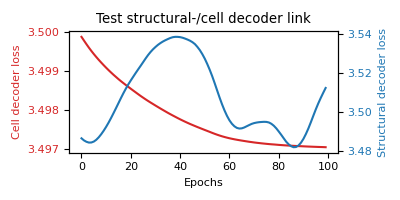
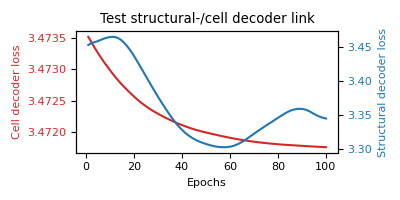
update validation loss calc

diff --git a/BaseModel_pytorch/DecoderCellContent.py b/BaseModel_pytorch/DecoderCellContent.py
@@ -194,29 +194,42 @@ class DecoderCellContent(torch.nn.Module):
             prediction_prob = torch.stack(prediction_probs[example_idx])
             num_predictions, num_probs = prediction_prob.size()
 
-            if unpadded_target_size < num_predictions:
 
-                # pad the target tokens to reach the the number of predictions
-                padded_target = torch.zeros(num_predictions, dtype=torch.int64)
-                padded_target[0:unpadded_target_size] = unpadded_target
+            # if unpadded_target_size < num_predictions:
 
-                # the tensors have compatible lengths
-                compatible_target = padded_target
-                compatible_prediction_prob = prediction_prob
+            # pad the target tokens to reach the the number of predictions
+            padded_target = torch.zeros(num_predictions, dtype=torch.int64)
+            padded_target[0:min(unpadded_target_size, num_predictions)] = unpadded_target[0:min(unpadded_target_size, num_predictions)]
 
-            else:
+            # the tensors have compatible lengths
+            compatible_target = padded_target
+            compatible_prediction_prob = prediction_prob
 
-                # pad the probability predictions to reach the number of target tokens
-                padded_prediction_prob = torch.zeros((unpadded_target_size, num_probs))
-                padded_prediction_prob[0:num_predictions, :] = prediction_prob
-
-                compatible_target = unpadded_target
-                compatible_prediction_prob = padded_prediction_prob
+            # if unpadded_target_size < num_predictions:
+            #
+            #     # pad the target tokens to reach the the number of predictions
+            #     padded_target = torch.zeros(num_predictions, dtype=torch.int64)
+            #     padded_target[0:unpadded_target_size] = unpadded_target
+            #
+            #     # the tensors have compatible lengths
+            #     compatible_target = padded_target
+            #     compatible_prediction_prob = prediction_prob
+            #
+            # else:
+            #
+            #     # pad the probability predictions to reach the number of target tokens
+            #     padded_prediction_prob = torch.zeros((unpadded_target_size, num_probs))
+            #     padded_prediction_prob[0:num_predictions, :] = prediction_prob
+            #
+            #     compatible_target = unpadded_target
+            #     compatible_prediction_prob = padded_prediction_prob
 
 #                print('pad prob', compatible_target.size(), compatible_prediction_prob.size())
 
-            time_steps = compatible_target.shape[0]
-            loss+= self.loss_criterion(compatible_prediction_prob, compatible_target)/time_steps
+
+            loss+= self.loss_criterion(compatible_prediction_prob, compatible_target)/unpadded_target_size
+        #     print(loss)
+        # quit()
         return loss/batch_size
 
     def predict(self, encoded_features_map, structural_hidden_state, cell_content_target=None, maxT = 150, store_attention=False):
@@ -329,8 +342,10 @@ class DecoderCellContent(torch.nn.Module):
                 # continue if no td is predicted for image
                 if len(structural_hidden_state[batch_index])==0:
                     continue
-#                print(cell_content_target[batch_index].shape)
-#                print(prediction_probs[batch_index])
+#                 print(cell_content_target[batch_index].shape)
+                # print(len(prediction_probs[batch_index]))
+                # print(prediction_probs[batch_index][0][0].shape)
+
                 loss_batch += self.calc_loss_cell(cell_content_target[batch_index, :, :], prediction_probs[batch_index] )
 
             return predictions, loss

diff --git a/BaseModel_pytorch/StructuralAttention.py b/BaseModel_pytorch/StructuralAttention.py
@@ -37,12 +37,50 @@ class StructuralAttention(torch.nn.Module):
         # print("attention_encoded_features_map[0]")
         # print(torch.min(attention_encoded_features_map[0]), torch.max(attention_encoded_features_map[0]))
 
-        # from matplotlib import pylab as plt
-        # plt.matshow(encoded_features_map[0,:,:].detach().numpy())
-        # plt.colorbar()
-        # plt.savefig('encoded_features_map.png')
-        # plt.close()
-        #
+#         from matplotlib import pylab as plt
+#         import numpy as np
+#         fig, axes = plt.subplots(nrows=2, ncols=1, figsize = (50, 10))
+#         ax0 = axes.flat[0]
+#         ax1 = axes.flat[1]
+#         print(encoded_features_map[0,:,:].detach().numpy().shape)
+#         print(structural_hidden_state.detach().numpy().shape)
+#         print(attention_encoded_features_map[0,:,:].detach().numpy().shape)
+#         print(np.repeat(attention_structural_hidden_state[0,:,:].detach().numpy(), 144, axis = 0).shape)
+#         print( (attention_encoded_features_map + attention_structural_hidden_state).shape)
+#
+#         ax0.matshow(encoded_features_map[0,:,:].detach().numpy())
+#         ax1.matshow(structural_hidden_state.detach().numpy())
+#         plt.savefig('Figures/attention_input.png')
+#
+#         fig, axes = plt.subplots(nrows=1, ncols=3, figsize = (6,1.7))
+#         ax0 = axes.flat[0]
+#         ax1 = axes.flat[1]
+#         ax2 = axes.flat[2]
+#         print("attention_encoded_features_map")
+#         print(attention_encoded_features_map[0,:,:].detach().numpy().min(), attention_encoded_features_map[0,:,:].detach().numpy().max())
+#         print("attention_structural_hidden_state")
+#         print(attention_structural_hidden_state[0,:,:].detach().numpy().min(), attention_structural_hidden_state[0,:,:].detach().numpy().max())
+#         min_ = min(attention_encoded_features_map[0,:,:].detach().numpy().min(),attention_structural_hidden_state[0,:,:].detach().numpy().min() )
+#         max_ = max(attention_encoded_features_map[0,:,:].detach().numpy().max(),attention_structural_hidden_state[0,:,:].detach().numpy().max() )
+#         im0 = ax0.matshow(attention_encoded_features_map[0,:,:].detach().numpy(),vmin = min_, vmax = max_)
+#         ax0.set_xticks([])
+#         ax0.set_yticks([])
+#         im1 = ax1.matshow(np.repeat(attention_structural_hidden_state[0,:,:].detach().numpy(), 144, axis = 0), vmin = min_, vmax = max_)
+#         ax1.set_xticks([])
+#         ax1.set_yticks([])
+#         im2 = ax2.matshow( (attention_encoded_features_map + attention_structural_hidden_state).detach().numpy()[0,:,:], vmin  = min_, vmax = max_)
+#         ax2.set_xticks([])
+#         ax2.set_yticks([])
+#         fig.subplots_adjust(bottom = 0.4)
+# #      cbar_ax = fig.add_axes([0.85, 0.15, 0.05, 0.7])
+#         cbar_ax = fig.add_axes([0.15, 0.25, 0.7, 0.07])
+#         fig.colorbar(im2, cax=cbar_ax, orientation = 'horizontal')
+# #        fig.tight_layout()
+#         plt.savefig('Figures/attention_intoReLu.png')
+# #        quit()
+
+        #plt.close()
+
         # print(structural_hidden_state.shape)
         # plt.matshow(structural_hidden_state.detach().numpy())
         # plt.colorbar()
@@ -71,6 +109,8 @@ class StructuralAttention(torch.nn.Module):
 
         # compute the attention weights
         attention_weights = self.softmax(attention_combined)
+#        print("attention_weigths")
+#        print(attention_weights.detach().numpy().min(), attention_weights.detach().numpy().max(), attention_weights.detach().numpy().mean())
         # we restore last dimension
         # attention_weights: (batch_size, n*n, 1)
         attention_weights = attention_weights.unsqueeze(2)

diff --git a/BaseModel_pytorch/DecoderStructural.py b/BaseModel_pytorch/DecoderStructural.py
@@ -160,6 +160,7 @@ class DecoderStructural(torch.nn.Module):
         """
 
         batch_size = targets.size()[0]
+
         loss =0
 
         for example_idx in range(batch_size):
@@ -174,27 +175,27 @@ class DecoderStructural(torch.nn.Module):
             prediction_prob = torch.stack(prediction_probs[example_idx])
             num_predictions, num_probs = prediction_prob.size()
 
-            if unpadded_target_size < num_predictions:
+            # if unpadded_target_size < num_predictions:
 
-                # pad the target tokens to reach the the number of predictions
-                padded_target = torch.zeros(num_predictions, dtype=torch.int64)
-                padded_target[0:unpadded_target_size] = unpadded_target
+            # pad the target tokens to reach the the number of predictions
+            padded_target = torch.zeros(num_predictions, dtype=torch.int64)
+            padded_target[0:min(unpadded_target_size, num_predictions)] = unpadded_target[0:min(unpadded_target_size, num_predictions)]
 
-                # the tensors have compatible lengths
-                compatible_target = padded_target
-                compatible_prediction_prob = prediction_prob
+            # the tensors have compatible lengths
+            compatible_target = padded_target
+            compatible_prediction_prob = prediction_prob
 
-            else:
-                # pad the probability predictions to reach the number of target tokens
-                padded_prediction_prob = torch.zeros((unpadded_target_size, num_probs))
-                padded_prediction_prob[0:num_predictions, :] = prediction_prob
-
-                compatible_target = unpadded_target
-                compatible_prediction_prob = padded_prediction_prob
-
+            # else:
+            #     # pad the probability predictions to reach the number of target tokens
+            #     padded_prediction_prob = torch.zeros((unpadded_target_size, num_probs))
+            #     padded_prediction_prob[0:num_predictions, :] = prediction_prob
+            #
+            #     compatible_target = unpadded_target
+            #     compatible_prediction_prob = padded_prediction_prob
+            #
 #                print('pad prob', compatible_target.size(), compatible_prediction_prob.size())
-            time_steps = compatible_target.shape[0]
-            loss+= self.loss_criterion(compatible_prediction_prob, compatible_target)/time_steps
+
+            loss+= self.loss_criterion(compatible_prediction_prob, compatible_target)/unpadded_target_size
 
         return loss/batch_size
 

diff --git a/BaseModel_pytorch/Test-Model.py b/BaseModel_pytorch/Test-Model.py
@@ -6,8 +6,8 @@ relative_path = "../../Dataset"
 model_tag = "baseline_cell"
 
 # tunable parameters
-out_channels_structural = 64 # number of channels
-out_channels_cell_content = 64 # number of channels
+out_channels_structural = 512 # number of channels
+out_channels_cell_content = 512 # number of channels
 structural_hidden_size = 128 # dimensions of hidden layer in structural decoder
 structural_attention_size = 128 # dimensions of context vector in structural decoder
 cell_content_hidden_size = 256 # dimensions of hidden layer in cell decoder
@@ -26,7 +26,7 @@ epochs = 10
 
 # make list of lambdas to use for each epoch in training
 lambda_ratio = 0.4
-lambdas = int(lambda_ratio * epochs) * [1.0] + int((1-lambda_ratio) * epochs) * [0.0001]
+lambdas = int(lambda_ratio * epochs) * [1.0] + int((1-lambda_ratio) * epochs) * [0.5]
 
 #lambdas = [1.0]*25 + 25*[1, 1, 0.5, 0.5]# for n in range(epochs)] # LAMBDA = 1 turns OFF cell decoder
 # if you want to run WITH cell decoder, you can uncomment the line below, remember to change epochs to 25
@@ -34,7 +34,7 @@ lambdas = int(lambda_ratio * epochs) * [1.0] + int((1-lambda_ratio) * epochs) * 
 
 
 # make list of learning rate to use for each epoch in training
-lrs = [0.01 for _ in range(epochs)] #+ [0.001]*25
+lrs = [0.001 for _ in range(epochs)] #+ [0.001]*25
 #lrs =[0.001 for n in range(20)]+ [0.0001 for _ in range(30)] + [0.00001 for _ in range(50)]# + [0.001 for _ in range(10)] + [0.0001 for _ in range(2)]
 #if you want to run WITH cell decoder, you can uncomment the line below, rembember to change epochs to 25
 #lrs = [0.001 for _ in range(10)] + [0.0001 for _ in range(3)] + [0.001 for _ in range(10)] + [0.0001 for _ in range(2)]
@@ -46,14 +46,14 @@ number_examples=10
 number_examples_val=10 # not used if val==None
 
 # size of batches
-batch_size=1
+batch_size=10
 batch_size_val = 10
 
 # number of examples in each preprocessed file
 storage_size=1000 # fixed, do not change
 
 # whether to calculate the validation loss
-f = 1
+f = 0
 val = f*[False]+(epochs-f)*[True]#, False, True, True]
 
 maxT_val = 200
@@ -93,7 +93,7 @@ loss,loss_s, loss_cc, loss_val, loss_s_val, loss_cc_val = model.train(epochs=epo
             maxT_val = maxT_val,
             alpha_c_struc = alpha_c_struc,
             alpha_c_cell_content = alpha_c_cell_content)
-print(loss_val)
+
 
 
 from matplotlib import pylab as plt

diff --git a/BaseModel_pytorch/PlotMatrices.py b/BaseModel_pytorch/PlotMatrices.py
@@ -1,0 +1,38 @@
+from Model import Model
+
+model_tag = "matrix_plot"
+file1_path = "/Users/andersborges/Documents/Capstone/PMC3681597_004_00.png"
+relative_path = "../../Dataset"
+
+# tunable parameters
+out_channels_structural = 64 # number of channels
+out_channels_cell_content = 64 # number of channels
+structural_hidden_size = 128 # dimensions of hidden layer in structural decoder
+structural_attention_size = 128 # dimensions of context vector in structural decoder
+cell_content_hidden_size = 256 # dimensions of hidden layer in cell decoder
+cell_content_attention_size = 128 # dimensions of ontext vector in structural decoder
+
+# fixed parameters
+in_channels = 512 # fixed in output from resnet, do not change
+structural_embedding_size = 16 # determined from preprocessing, do not change
+cell_content_embedding_size = 80 # determined from preprocessing, do not change
+
+# import model
+from Model import Model
+
+# instantiate model
+model = Model(relative_path,
+        model_tag,
+        in_channels = in_channels,
+        out_channels_structural = out_channels_structural,
+        out_channels_cell_content = out_channels_cell_content,
+        structural_embedding_size=structural_embedding_size,
+        structural_hidden_size=structural_hidden_size,
+        structural_attention_size=structural_attention_size,
+        cell_content_embedding_size=cell_content_embedding_size,
+        cell_content_hidden_size=cell_content_hidden_size,
+        cell_content_attention_size=cell_content_attention_size)
+
+# reload latest checkpoint
+model.load_checkpoint(file_path = "checkpoint_004.pth.tar")
+predicted_struc_tokens, predictions_cell, structure_attention_weights , cell_attention_weights = model.predict(file1_path)

diff --git a/BaseModel_pytorch/Model.py b/BaseModel_pytorch/Model.py
@@ -343,8 +343,6 @@ class Model:
                         losses_s_val.append(total_loss_s_val)
                         losses_cc_val.append(total_loss_cc_val)
 
-                        #total_loss_s_val /= len(batches)
-                        #total_loss_cc_val /= len(batches)
                         print("-------------Validation loss:---------------")
                         print("-- structural decoder:---")
                         print("Truth (1 example)")
@@ -376,8 +374,8 @@ class Model:
                     print("Total val. loss: %.5f" %total_loss_val)
                     print('Validation struct. decod. loss: %.5f'%total_loss_s_val)
                     if abs(1-LAMBDA) > 0.0000001:
-                        print(val)
-                        quit()
+#                         print(val)
+# #                        quit()
                         print('Validation cell decoder. loss: %.5f'% loss_cc_val)
             print('time for 100k examples:', "%.2f hours" %
                   ((t1_stop-t1_start)/number_examples*100000/3600))

diff --git a/BaseModel_pytorch/PlotLosses.py b/BaseModel_pytorch/PlotLosses.py
@@ -16,20 +16,21 @@ val_losses = []
 
 for l in ls:
     if "epoch" in l:
-        epochs.append(int(l.split()[1]))
+        epochs.append(int(l.split()[1])+1)
     if "Struct. decod. loss:" in l:
         losses.append(float(l.split()[-1]))
     if "Validation struct. decod. loss:" in l:
         val_losses.append(float(l.split()[-1]))
 f.close()
 
-fig, ax1 = plt.subplots(figsize=(4,2))
+fig, ax1 = plt.subplots(figsize=(4,3))
 ax1.title.set_text("10k samples, lr=0.001, lambda = 1.0")
 ax1.plot(epochs, losses, label = 'Training')
 ax1.plot(epochs, val_losses, label = "Validation")
 ax1.set_ylabel("Loss")
-ax1.set_xlabel("Epochs")
+ax1.set_xlabel("Epoch")
 ax1.legend()
+ax1.set_ylim([0, 1.1*max(losses)])
 fig.tight_layout()
 plt.savefig("Figures/train_val_loss.png")
 

diff --git a/BaseModel_pytorch/Test-Link.py b/BaseModel_pytorch/Test-Link.py
@@ -96,14 +96,14 @@ ax1.title.set_text("Test structural-/cell decoder link")
 color = 'tab:red'
 ax1.set_xlabel('Epochs')
 ax1.set_ylabel('Cell decoder loss', color=color)
-ax1.plot(loss_cc, color=color)
+ax1.plot(range(1, len(loss_cc)+1), loss_cc, color=color)
 ax1.tick_params(axis='y', labelcolor=color)
 
 ax2 = ax1.twinx()  # instantiate a second axes that shares the same x-axis
 
 color = 'tab:blue'
 ax2.set_ylabel('Structural decoder loss', color=color)  # we already handled the x-label with ax1
-ax2.plot(loss_s, color=color)
+ax2.plot(range(1, len(loss_s)+1), loss_s, color=color)
 ax2.tick_params(axis='y', labelcolor=color)
 
 fig.tight_layout()  # otherwise the right y-label is slightly clipped

diff --git a/BaseModel_pytorch/Test-Encoder.py b/BaseModel_pytorch/Test-Encoder.py
@@ -101,7 +101,7 @@ for n, conv in enumerate(convs):
                     maxT_val = maxT_val,
                     alpha_c_struc = alpha_c_struc,
                     alpha_c_cell_content = alpha_c_cell_content)
-        ax1.plot(loss, label = '%s, Out-dim:%d'%(conv_labels[n], out))
+        ax1.plot(range(1, len(loss)+1), loss, label = '%s, Out-dim:%d'%(conv_labels[n], out))
 
 
 ax1.title.set_text("Encoder type and out-put dimensions")
